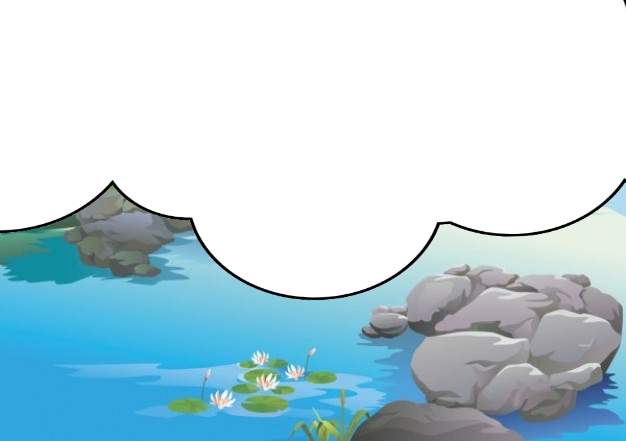
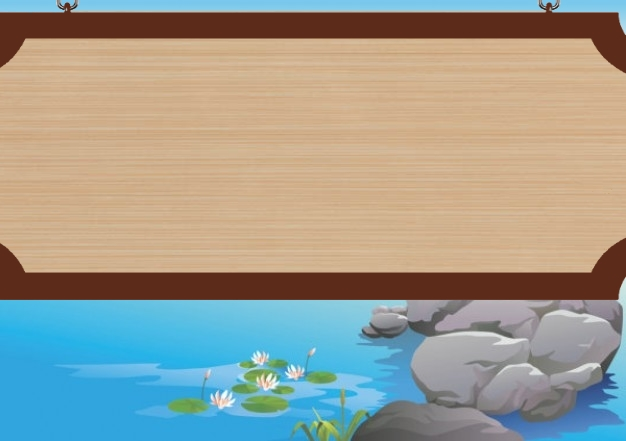
add

diff --git a/projet/EnglishProject/src/Window/PanelTopicPlay.java b/projet/EnglishProject/src/Window/PanelTopicPlay.java
@@ -54,7 +54,7 @@ public class PanelTopicPlay extends JPanel {
 
 		Main.window.setSize(899, 600);
 
-		this.setBorder(BorderFactory.createEmptyBorder(20, 25, 10, 10));
+		this.setBorder(BorderFactory.createEmptyBorder(60, 25, 10, 10));
 		this.setLayout(new FlowLayout());
 		// this.setLayout(null);
 
@@ -73,12 +73,12 @@ public class PanelTopicPlay extends JPanel {
 		this.topicPanel.setLayout(new FlowLayout());
 		// this.gridPanel.setLayout(new GridLayout(1,2));
 		this.gridPanelLayout = new GridLayout(1, 2);
-		this.gridPanelLayout.setHgap(Main.window.getHeight() / 4);
+		this.gridPanelLayout.setHgap(Main.window.getHeight() / 3 - 40);
 		this.gridPanel.setLayout(this.gridPanelLayout);
 		this.gridPanel.setOpaque(false);
 		// this.encapsulateGridPanel.setLayout(new GridLayout(2,1));
 		this.encapsulateGridLayout = new GridLayout(3, 1);
-		this.encapsulateGridLayout.setVgap(Main.window.getWidth() / 4);
+		this.encapsulateGridLayout.setVgap(Main.window.getWidth() / 3);
 		this.encapsulateGridPanel.setLayout(this.encapsulateGridLayout);
 		//
 		this.returnMainMenuPanel = new JPanel();
@@ -156,8 +156,8 @@ public class PanelTopicPlay extends JPanel {
 			public void componentResized(ComponentEvent e) {
 				System.out.println(Main.window.getWidth());
 				System.out.println(Main.window.getHeight());
-				gridPanelLayout.setHgap(Main.window.getHeight() / 4);
-				encapsulateGridLayout.setVgap(Main.window.getHeight() / 4);
+				gridPanelLayout.setHgap(Main.window.getWidth() / 3 - 40);
+				encapsulateGridLayout.setVgap(Main.window.getHeight() / 3);
 				gridPanel.setLayout(gridPanelLayout);
 				encapsulateGridPanel.setLayout(encapsulateGridLayout);
 				gridPanel.repaint();

diff --git a/projet/EnglishProject/src/Window/BoxTopic.java b/projet/EnglishProject/src/Window/BoxTopic.java
@@ -29,7 +29,6 @@ public class BoxTopic extends JPanel {
 	public BoxTopic(Modele mainmodele) {
 		this.mainmodele = mainmodele;
 		this.topics = mainmodele.getAllTopics();
-		this.setBounds(25, 25, 125, 200);
 		this.setOpaque(false);
 		GridLayout layout = new GridLayout(topics.size() + 1, 1);
 		layout.setHgap(5);
@@ -68,7 +67,7 @@ public class BoxTopic extends JPanel {
 
 	public void paintComponent(Graphics g) {
 		try {
-			Image img = ImageIO.read(new File("Graphics" + File.separator + "white.jpg"));
+			Image img = ImageIO.read(new File("Graphics" + File.separator + "WoodTopicBox.png"));
 			g.drawImage(img, 0, 0, this.getWidth(), this.getHeight(), this);
 		} catch (IOException e) {
 			e.printStackTrace();

diff --git a/projet/EnglishProject/src/Window/OptionsGamePanel.java b/projet/EnglishProject/src/Window/OptionsGamePanel.java
@@ -25,7 +25,6 @@ public class OptionsGamePanel extends JPanel {
 		// this.setBounds(175, 25, 150, 200);
 		this.setLayout(new GridLayout(6, 1));
 
-		this.setOpaque(false);
 
 		this.add(new JLabel("Choose nb words"));
 		this.add(nbwords);
@@ -39,7 +38,7 @@ public class OptionsGamePanel extends JPanel {
 
 	public void paintComponent(Graphics g) {
 		try {
-			Image img = ImageIO.read(new File("Graphics" + File.separator + "white.jpg"));
+			Image img = ImageIO.read(new File("Graphics" + File.separator + "WoodTopicBox.png"));
 			g.drawImage(img, 0, 0, this.getWidth(), this.getHeight(), this);
 		} catch (IOException e) {
 			e.printStackTrace();
